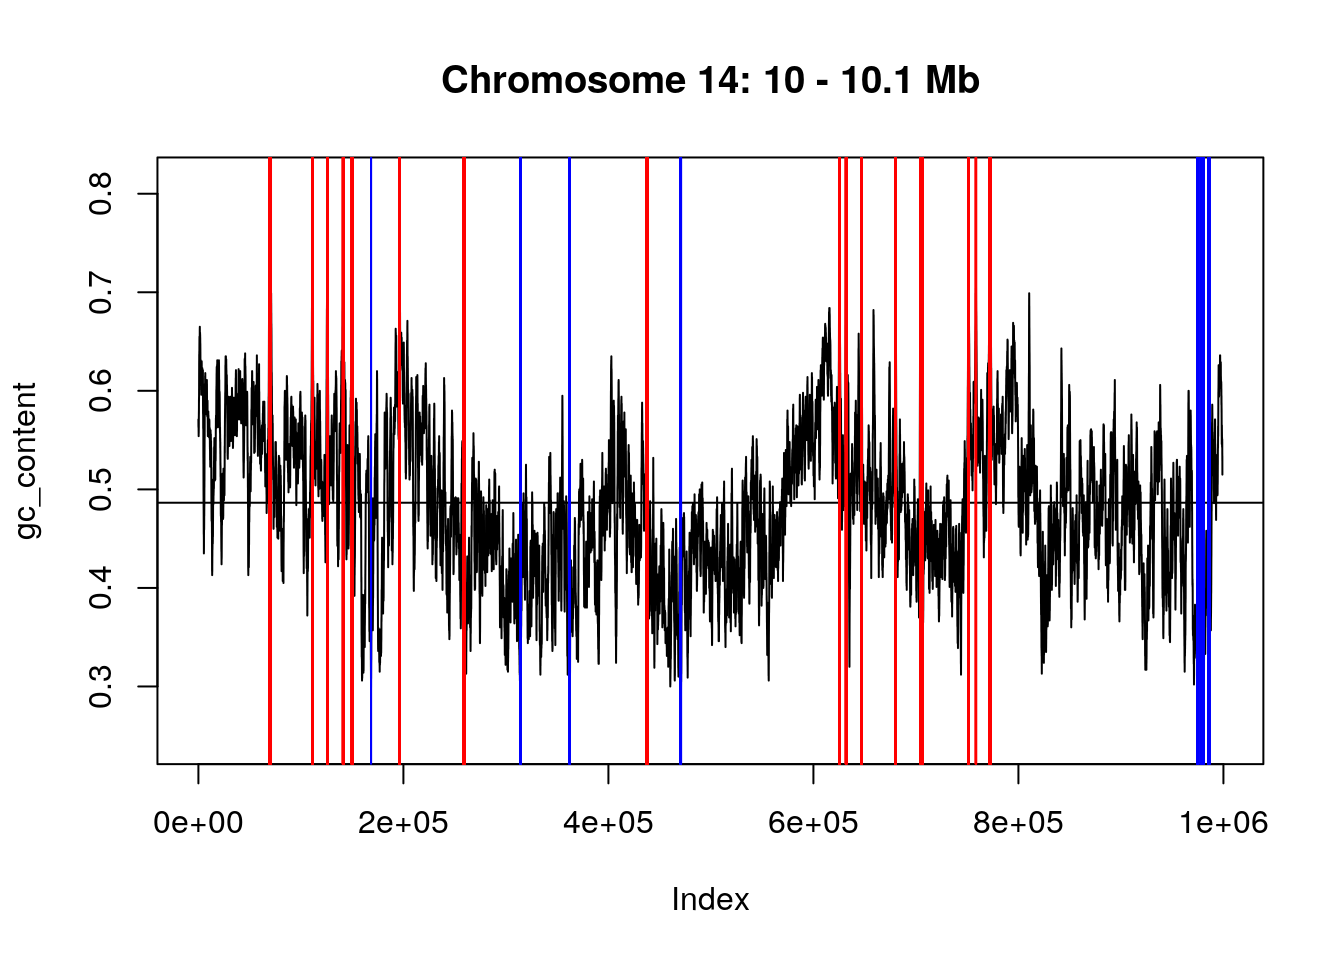
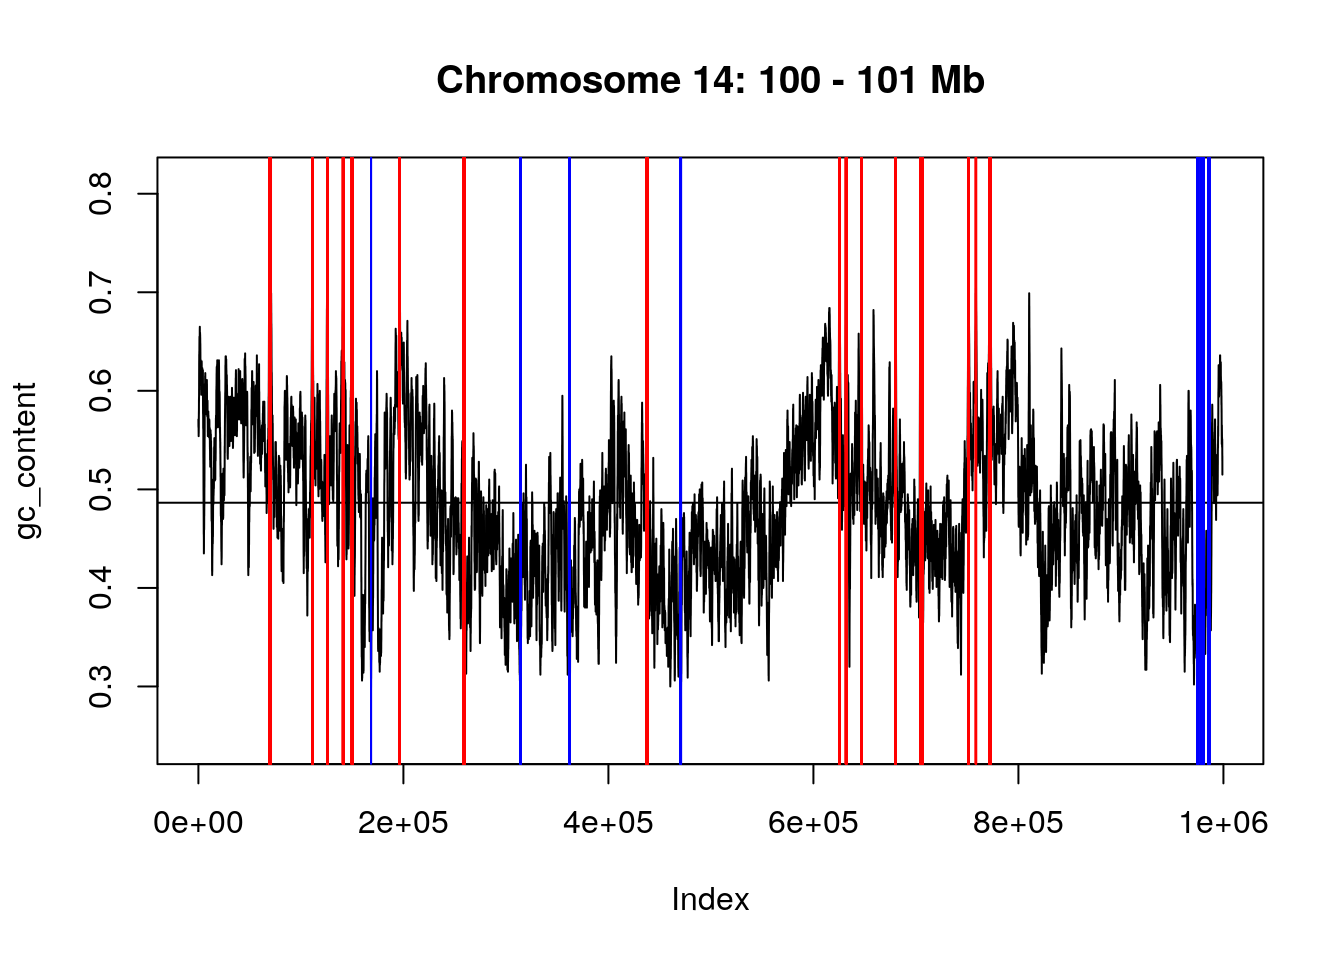
fix base positions in chr14 gc suppl ex

Changed region(s): [[0.3125, 0.0625, 0.75, 0.0938]]

diff --git a/docs/sec-testing.html b/docs/sec-testing.html
@@ -15,7 +15,7 @@
 
 <meta name="author" content="Laurent Gatto" />
 
-<meta name="date" content="2019-10-27" />
+<meta name="date" content="2019-10-29" />
 
 <script type="text/x-mathjax-config">
 MathJax.Hub.Config({
@@ -118,6 +118,7 @@ code > span.in { color: #60a0b0; font-weight: bold; font-style: italic; } /* Inf
 <li class="toc"><a href="#a-biological-example"> A biological example</a></li>
 <li class="toc"><a href="#a-more-realistic-biological-example"> A more realistic biological example</a></li>
 <li class="toc"><a href="#adjustment-for-multiple-testing"> Adjustment for multiple testing</a></li>
+<li class="toc"><a href="#result-visualisation"> Result visualisation</a></li>
 <li class="toc"><a href="#a-word-of-caution"> A word of caution</a></li>
 <li class="toc"><a href="#additional-exercises-5"> Additional exercises</a></li>
 </ul>
@@ -484,6 +485,10 @@ Figure 7.7: Principle behind the false discovery rate p-value adjustment (<a hre
 </p>
 </div>
 </div>
+</div>
+<div id="result-visualisation" class="section level2">
+<h2>
+<span class="header-section-number">7.5</span> Result visualisation</h2>
 <!-- TODO -->
 <!-- ## Linear regression -->
 <!-- Suggested TODO  -->
@@ -492,7 +497,7 @@ Figure 7.7: Principle behind the false discovery rate p-value adjustment (<a hre
 </div>
 <div id="a-word-of-caution" class="section level2">
 <h2>
-<span class="header-section-number">7.5</span> A word of caution</h2>
+<span class="header-section-number">7.6</span> A word of caution</h2>
 <p>Summary of statistical inference:</p>
 <ol style="list-style-type: decimal">
 <li><p>Set up a model of reality: null hypothesis <span class="math inline">\(H_0\)</span> (no difference) and <em>alternative hypothesis</em> <span class="math inline">\(H_1\)</span> (there is a difference).</p></li>
@@ -512,7 +517,7 @@ Figure 7.7: Principle behind the false discovery rate p-value adjustment (<a hre
 </div>
 <div id="additional-exercises-5" class="section level2">
 <h2>
-<span class="header-section-number">7.6</span> Additional exercises</h2>
+<span class="header-section-number">7.7</span> Additional exercises</h2>
 <div class="question">
 <p class="question-begin">
 ► Question
@@ -739,7 +744,7 @@ binomial_dens &lt;-
 <a href="sec-ul.html"><button class="btn btn-default">Next</button></a>
 </p>
 <p class="build-date">Page built: 
-2019-10-27
+2019-10-29
 </p>
 </div>
 </div>

diff --git a/docs/sec-biostrings.html b/docs/sec-biostrings.html
@@ -15,7 +15,7 @@
 
 <meta name="author" content="Laurent Gatto" />
 
-<meta name="date" content="2019-10-27" />
+<meta name="date" content="2019-10-29" />
 
 <script type="text/x-mathjax-config">
 MathJax.Hub.Config({
@@ -689,7 +689,7 @@ chr14_dna</code></pre></div>
 ► Question
 </p>
 <div class="question-body">
-<p>Focusing on the region from base 10 to 10.1 million along chromosome 14, calculate the GC content across a sliding window of 1000 nucleotides (you can use the <code>letterFrequencyInSlidingView</code> functionn) and visualise it (see an example below). On that plot, show the mean GC content and highlight the regions that have a GC content &gt; 0.7 and &lt; 0.3.</p>
+<p>Focusing on the region from base 100 million to 101 million along chromosome 14, calculate the GC content across a sliding window of 1000 nucleotides (you can use the <code>letterFrequencyInSlidingView</code> functionn) and visualise it (see an example below). On that plot, show the mean GC content and highlight the regions that have a GC content &gt; 0.7 and &lt; 0.3.</p>
 <p class="question-end">
 <span class="fa fa-square-o solution-icon"></span>
 </p>
@@ -698,9 +698,9 @@ chr14_dna</code></pre></div>
 <div class="figure">
 <span id="fig:unnamed-chunk-19"></span>
 <p class="caption marginnote shownote">
-Figure 4.1: GC content for chomosome 14 (10 - 10.1 Mb)
+Figure 4.1: GC content for chomosome 14 (100 - 101 Mb)
 </p>
-<img src="WSBIM1322_files/figure-html/unnamed-chunk-19-1.png" alt="GC content for chomosome 14 (10 - 10.1 Mb)" width="672">
+<img src="WSBIM1322_files/figure-html/unnamed-chunk-19-1.png" alt="GC content for chomosome 14 (100 - 101 Mb)" width="672">
 </div>
 <div class="question">
 <p class="question-begin">
@@ -767,7 +767,7 @@ Figure 4.1: GC content for chomosome 14 (10 - 10.1 Mb)
 <a href="sec-norm.html"><button class="btn btn-default">Next</button></a>
 </p>
 <p class="build-date">Page built: 
-2019-10-27
+2019-10-29
 </p>
 </div>
 </div>

diff --git a/docs/sec-vis.html b/docs/sec-vis.html
@@ -15,7 +15,7 @@
 
 <meta name="author" content="Laurent Gatto" />
 
-<meta name="date" content="2019-10-27" />
+<meta name="date" content="2019-10-29" />
 
 <script type="text/x-mathjax-config">
 MathJax.Hub.Config({
@@ -720,7 +720,7 @@ p1 &lt;-<span class="st">  </span><span class="kw">ggplot</span>(sim, <span clas
 p2 &lt;-<span class="st">  </span><span class="kw">ggplot</span>(sim, <span class="kw">aes</span>(<span class="kw">log</span>(x))) <span class="op">+</span>
 <span class="st">    </span><span class="kw">geom_histogram</span>(<span class="dt">bins =</span> <span class="dv">30</span>)
 p1 <span class="op">+</span><span class="st"> </span>p2</code></pre></div>
-<pre><code>## Warning: Removed 8161 rows containing non-finite values (stat_bin).</code></pre>
+<pre><code>## Warning: Removed 7940 rows containing non-finite values (stat_bin).</code></pre>
 <div class="figure">
 <span id="fig:sim"></span>
 <p class="caption marginnote shownote">
@@ -937,7 +937,7 @@ scp2 &lt;-<span class="st"> </span>scp <span class="op">+</span><span class="st"
 <a href="sec-obj.html"><button class="btn btn-default">Next</button></a>
 </p>
 <p class="build-date">Page built: 
-2019-10-27
+2019-10-29
 </p>
 </div>
 </div>

diff --git a/docs/index.html b/docs/index.html
@@ -15,7 +15,7 @@
 
 <meta name="author" content="Laurent Gatto" />
 
-<meta name="date" content="2019-10-27" />
+<meta name="date" content="2019-10-29" />
 
 <script type="text/x-mathjax-config">
 MathJax.Hub.Config({
@@ -197,7 +197,7 @@ devtools<span class="op">::</span><span class="kw">install_github</span>(<span c
 <a href="sec-refresher.html"><button class="btn btn-default">Next</button></a>
 </p>
 <p class="build-date">Page built: 
-2019-10-27
+2019-10-29
 </p>
 </div>
 </div>

diff --git a/docs/sec-si.html b/docs/sec-si.html
@@ -15,7 +15,7 @@
 
 <meta name="author" content="Laurent Gatto" />
 
-<meta name="date" content="2019-10-27" />
+<meta name="date" content="2019-10-29" />
 
 <script type="text/x-mathjax-config">
 MathJax.Hub.Config({
@@ -254,7 +254,7 @@ BiocManager<span class="op">::</span><span class="kw">install</span>(pkgs)</code
 <a href="sec-ccl.html"><button class="btn btn-default">Previous</button></a>
 </p>
 <p class="build-date">Page built: 
-2019-10-27
+2019-10-29
 </p>
 </div>
 </div>

diff --git a/docs/sec-sl.html b/docs/sec-sl.html
@@ -15,7 +15,7 @@
 
 <meta name="author" content="Laurent Gatto" />
 
-<meta name="date" content="2019-10-27" />
+<meta name="date" content="2019-10-29" />
 
 <script type="text/x-mathjax-config">
 MathJax.Hub.Config({
@@ -140,7 +140,7 @@ code > span.in { color: #60a0b0; font-weight: bold; font-style: italic; } /* Inf
 <a href="sec-biovis.html"><button class="btn btn-default">Next</button></a>
 </p>
 <p class="build-date">Page built: 
-2019-10-27
+2019-10-29
 </p>
 </div>
 </div>

diff --git a/docs/sec-ul.html b/docs/sec-ul.html
@@ -15,7 +15,7 @@
 
 <meta name="author" content="Laurent Gatto" />
 
-<meta name="date" content="2019-10-27" />
+<meta name="date" content="2019-10-29" />
 
 <script type="text/x-mathjax-config">
 MathJax.Hub.Config({
@@ -140,7 +140,7 @@ code > span.in { color: #60a0b0; font-weight: bold; font-style: italic; } /* Inf
 <a href="sec-dimred.html"><button class="btn btn-default">Next</button></a>
 </p>
 <p class="build-date">Page built: 
-2019-10-27
+2019-10-29
 </p>
 </div>
 </div>

diff --git a/docs/sec-biovis.html b/docs/sec-biovis.html
@@ -15,7 +15,7 @@
 
 <meta name="author" content="Laurent Gatto" />
 
-<meta name="date" content="2019-10-27" />
+<meta name="date" content="2019-10-29" />
 
 <script type="text/x-mathjax-config">
 MathJax.Hub.Config({
@@ -145,7 +145,7 @@ code > span.in { color: #60a0b0; font-weight: bold; font-style: italic; } /* Inf
 <a href="sec-ccl.html"><button class="btn btn-default">Next</button></a>
 </p>
 <p class="build-date">Page built: 
-2019-10-27
+2019-10-29
 </p>
 </div>
 </div>

diff --git a/docs/sec-refresher.html b/docs/sec-refresher.html
@@ -15,7 +15,7 @@
 
 <meta name="author" content="Laurent Gatto" />
 
-<meta name="date" content="2019-10-27" />
+<meta name="date" content="2019-10-29" />
 
 <script type="text/x-mathjax-config">
 MathJax.Hub.Config({
@@ -274,7 +274,7 @@ code > span.in { color: #60a0b0; font-weight: bold; font-style: italic; } /* Inf
 <a href="sec-vis.html"><button class="btn btn-default">Next</button></a>
 </p>
 <p class="build-date">Page built: 
-2019-10-27
+2019-10-29
 </p>
 </div>
 </div>

diff --git a/docs/sec-ccl.html b/docs/sec-ccl.html
@@ -15,7 +15,7 @@
 
 <meta name="author" content="Laurent Gatto" />
 
-<meta name="date" content="2019-10-27" />
+<meta name="date" content="2019-10-29" />
 
 <script type="text/x-mathjax-config">
 MathJax.Hub.Config({
@@ -140,7 +140,7 @@ code > span.in { color: #60a0b0; font-weight: bold; font-style: italic; } /* Inf
 <a href="sec-si.html"><button class="btn btn-default">Next</button></a>
 </p>
 <p class="build-date">Page built: 
-2019-10-27
+2019-10-29
 </p>
 </div>
 </div>

diff --git a/docs/sec-dimred.html b/docs/sec-dimred.html
@@ -15,7 +15,7 @@
 
 <meta name="author" content="Laurent Gatto" />
 
-<meta name="date" content="2019-10-27" />
+<meta name="date" content="2019-10-29" />
 
 <script type="text/x-mathjax-config">
 MathJax.Hub.Config({
@@ -141,7 +141,7 @@ code > span.in { color: #60a0b0; font-weight: bold; font-style: italic; } /* Inf
 <a href="sec-sl.html"><button class="btn btn-default">Next</button></a>
 </p>
 <p class="build-date">Page built: 
-2019-10-27
+2019-10-29
 </p>
 </div>
 </div>

diff --git a/docs/sec-mlintro.html b/docs/sec-mlintro.html
@@ -15,7 +15,7 @@
 
 <meta name="author" content="Laurent Gatto" />
 
-<meta name="date" content="2019-10-27" />
+<meta name="date" content="2019-10-29" />
 
 <script type="text/x-mathjax-config">
 MathJax.Hub.Config({
@@ -588,7 +588,7 @@ Figure 6.9: A dataset of 100 labelled and three new, unlalled, points.
 <a href="sec-testing.html"><button class="btn btn-default">Next</button></a>
 </p>
 <p class="build-date">Page built: 
-2019-10-27
+2019-10-29
 </p>
 </div>
 </div>
